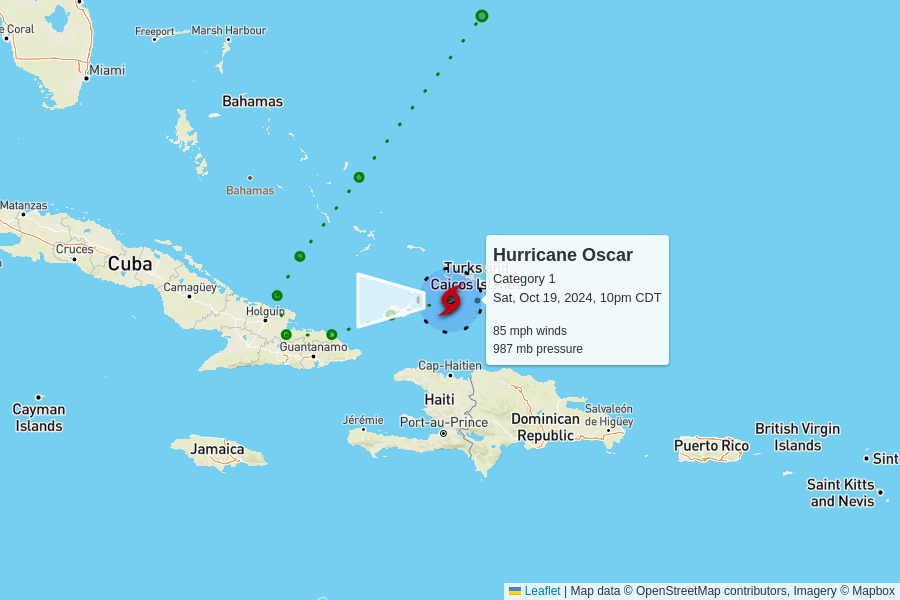
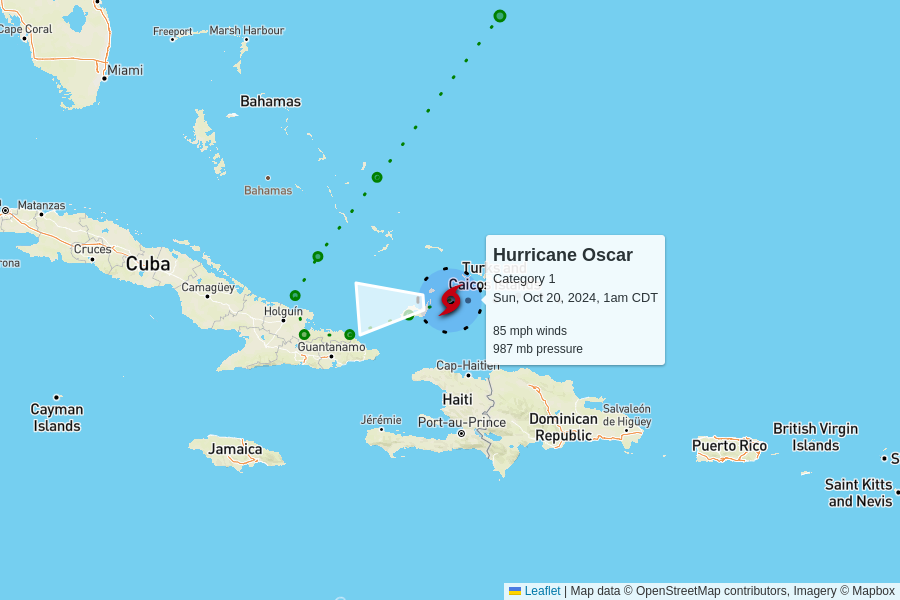
automatic update

diff --git a/docs/index.html b/docs/index.html
@@ -101,6 +101,50 @@
 
     <table>
       <tr>
+        <td colspan="6" class="storm category-1" >
+          <h2>
+            Hurricane Oscar - Category 1
+            <p class="updated">last updated <span data-time>2024-10-20T06:00:00.000Z</span></p>
+          </h2>
+        </td>
+      </tr>
+      
+      <tr>
+        <th class="spacer"></th>
+        <th>wind speed</th>
+        <th>central pressure</th>
+        <th>movement</th>
+        <th>data (CSV)</th>
+        <th>National Hurricane Center</th>
+      </tr>
+      <tr>
+        <td class="spacer"></td>
+        <td>85 mph<br>0 mph since last update</td>
+        <td>987 mb<br>0 mb since last update</td>
+        <td>
+          10 mph to the west
+          <br/>
+          <span style="display: inline-block; font-size: 1.5em; transform: rotate(265deg);">↑</span>
+        </td>
+        <td><a href="https://raw.githubusercontent.com/mgwalker/atlantic-hurricanes/main/data/csv/AL162024.csv">AL162024.csv</a></td>
+        <td><a href="https://www.nhc.noaa.gov/archive/2024/OSCAR.shtml?">NHC advisories</a></td>
+      </tr>
+      <tr id="storm_AL162024" >
+        <td class="spacer">
+        <td colspan="5">
+          <figure>
+            <img src="AL162024.png">
+            <figcaption>
+              Map data &copy; <a href="https://www.openstreetmap.org/copyright">OpenStreetMap</a> contributors,
+              Imagery &copy; <a href="https://www.mapbox.com/">Mapbox</a> |
+              <a href="https://www.mapbox.com/map-feedback/" target="_blank">Improve this map</a>
+            </figcaption>
+          </figure>
+        </td>
+      </tr>
+      
+
+      <tr>
         <td colspan="6" class="storm category-0" >
           <h2>
             Tropical Depression Nadine
@@ -134,50 +178,6 @@
         <td colspan="5">
           <figure>
             <img src="AL152024.png">
-            <figcaption>
-              Map data &copy; <a href="https://www.openstreetmap.org/copyright">OpenStreetMap</a> contributors,
-              Imagery &copy; <a href="https://www.mapbox.com/">Mapbox</a> |
-              <a href="https://www.mapbox.com/map-feedback/" target="_blank">Improve this map</a>
-            </figcaption>
-          </figure>
-        </td>
-      </tr>
-      
-
-      <tr>
-        <td colspan="6" class="storm category-1" >
-          <h2>
-            Hurricane Oscar - Category 1
-            <p class="updated">last updated <span data-time>2024-10-20T03:00:00.000Z</span></p>
-          </h2>
-        </td>
-      </tr>
-      
-      <tr>
-        <th class="spacer"></th>
-        <th>wind speed</th>
-        <th>central pressure</th>
-        <th>movement</th>
-        <th>data (CSV)</th>
-        <th>National Hurricane Center</th>
-      </tr>
-      <tr>
-        <td class="spacer"></td>
-        <td>85 mph<br>0 mph since last update</td>
-        <td>987 mb<br>0 mb since last update</td>
-        <td>
-          12 mph to the west
-          <br/>
-          <span style="display: inline-block; font-size: 1.5em; transform: rotate(270deg);">↑</span>
-        </td>
-        <td><a href="https://raw.githubusercontent.com/mgwalker/atlantic-hurricanes/main/data/csv/AL162024.csv">AL162024.csv</a></td>
-        <td><a href="https://www.nhc.noaa.gov/archive/2024/OSCAR.shtml?">NHC advisories</a></td>
-      </tr>
-      <tr id="storm_AL162024" >
-        <td class="spacer">
-        <td colspan="5">
-          <figure>
-            <img src="AL162024.png">
             <figcaption>
               Map data &copy; <a href="https://www.openstreetmap.org/copyright">OpenStreetMap</a> contributors,
               Imagery &copy; <a href="https://www.mapbox.com/">Mapbox</a> |
